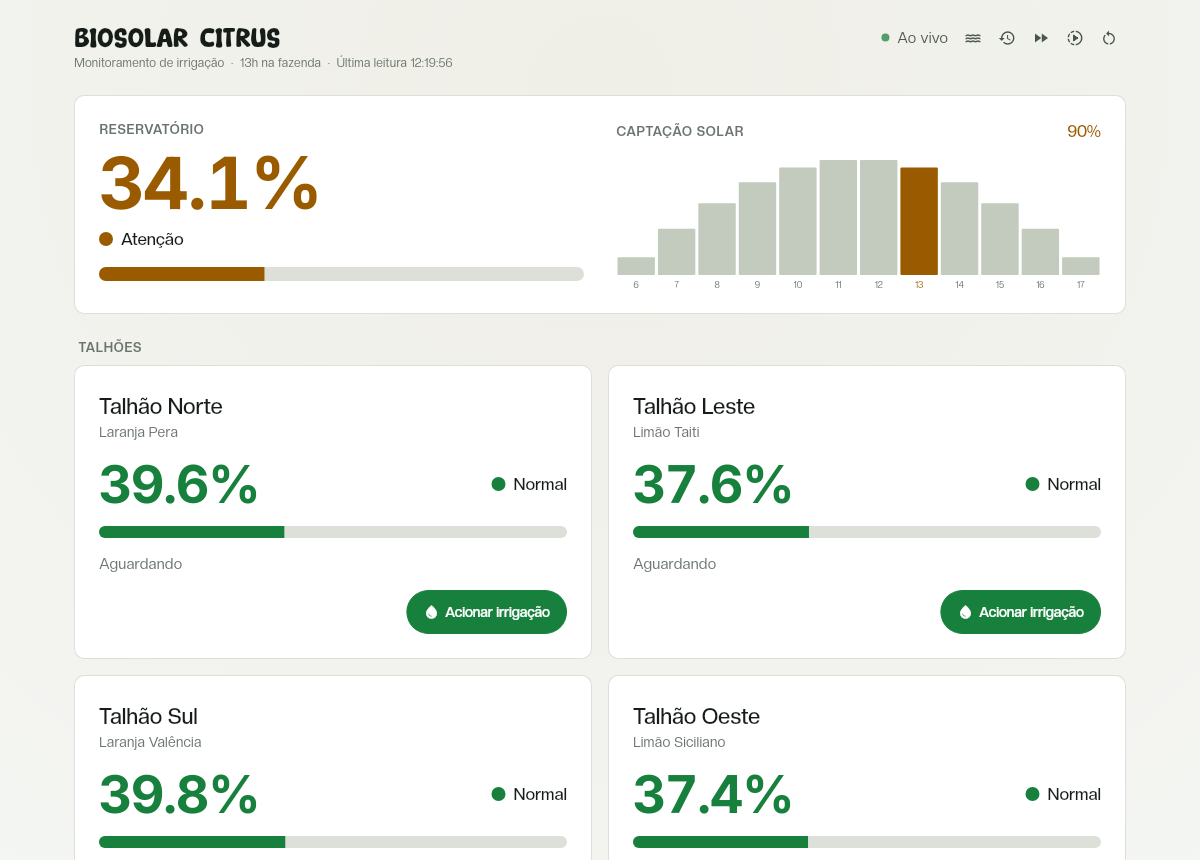
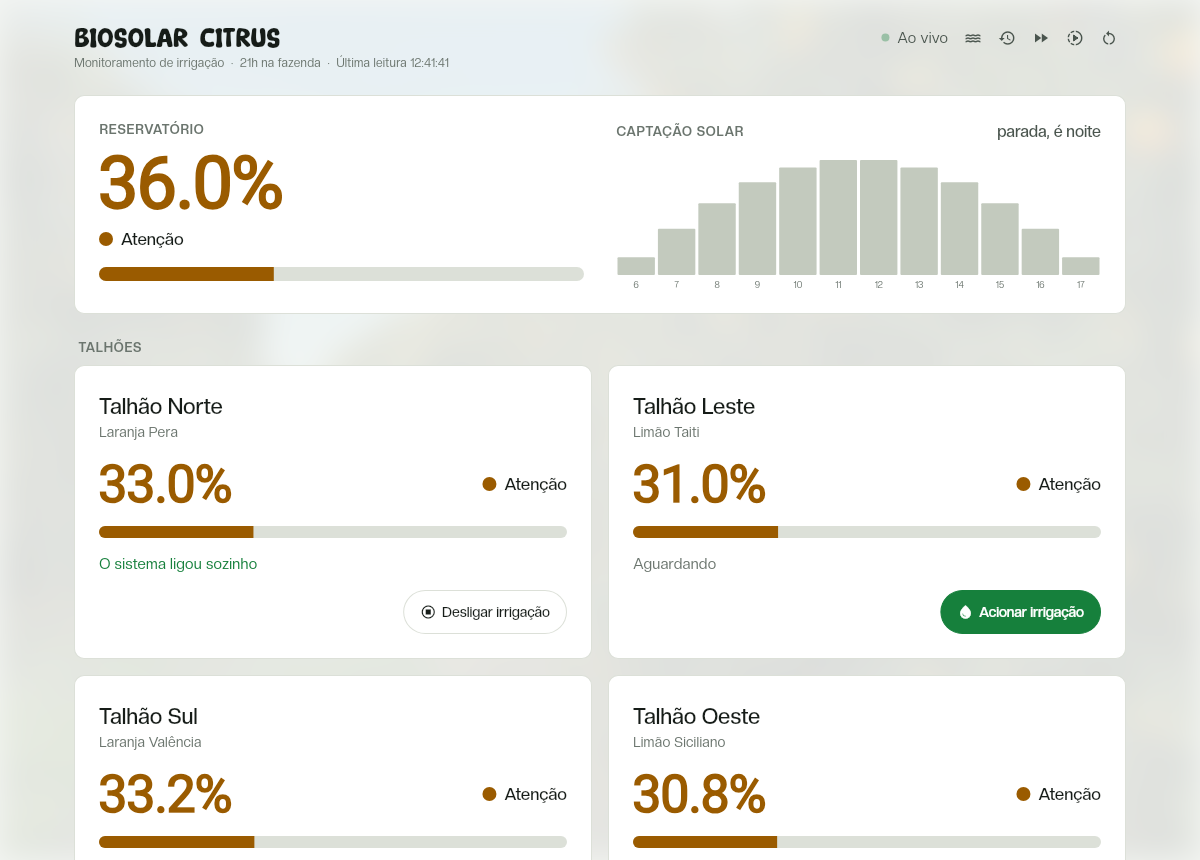
feat(app): foto do pomar como textura de fundo
A imagem entra em app/assets/imagens, desenhada cobrindo a tela e fixa, fora da
area rolavel, entao nao acompanha a rolagem. O desfoque, de sigma 15, envolve
apenas a imagem com ImageFiltered, nunca o conteudo, e por isso e calculado uma
vez em vez de a cada quadro.

Por cima vai um veu da cor de fundo do tema, com a opacidade em uma constante
nomeada, _opacidadeDoVeu, hoje em 0,90. Os cartoes seguem opacos com a cor de
superficie, entao o contraste dos numeros nao depende do que esta atras.

O valor do veu nao foi escolhido no olho. Medi o contraste no pior ponto de
fundo atras do texto terciario, que e o de menor contraste da tela e o primeiro
a sofrer: 4,40 sem imagem, 3,72 com 0,90, 3,07 com 0,82 e 2,70 com 0,74. Em 0,90
a leitura fica praticamente igual a de fundo liso; de 0,82 para baixo a linha de
contexto e o rotulo TALHOES comecam a se perder nas partes escuras da foto. A
tabela ficou no comentario da constante, para a proxima pessoa nao repetir a
medicao.

A foto foi reduzida para 600 por 800 e recomprimida, de 414 KB para 133 KB: ela
aparece desfocada sob um veu de 90%, entao resolucao cheia seria peso no APK sem
nenhum ganho visivel.

Conferido em 375, 480, 820 e 1200, no topo e rolado.

diff --git a/app/lib/funcionalidades/monitoramento/apresentacao/tela_monitoramento.dart b/app/lib/funcionalidades/monitoramento/apresentacao/tela_monitoramento.dart
@@ -5,6 +5,8 @@
 /// servidor devolveu.
 library;
 
+import 'dart:ui' show ImageFilter;
+
 import 'package:compartilhado/modelos.dart';
 import 'package:flutter/material.dart';
 import 'package:flutter_bloc/flutter_bloc.dart';
@@ -31,6 +33,28 @@ const double _corteCelular = 480;
 /// que o estado de conexão e os cinco botões, o nome era truncado bem antes
 /// dos 480.
 const double _corteCabecalho = 600;
+
+/// Opacidade do véu sobre a foto do pomar. É o número para mexer quando quiser
+/// mais ou menos textura no fundo.
+///
+/// Medido com a foto atual, no pior ponto de fundo atrás do texto terciário,
+/// que é o de menor contraste da tela e portanto o primeiro a sofrer:
+///
+/// | véu  | contraste do texto terciário |
+/// |------|------------------------------|
+/// | sem imagem | 4,40                   |
+/// | 0,90 | 3,72, 15% abaixo da base      |
+/// | 0,82 | 3,07, 30% abaixo             |
+/// | 0,74 | 2,70, 39% abaixo             |
+///
+/// 0,90 mantém a leitura praticamente igual à de fundo liso. Abaixo de 0,82 a
+/// linha de contexto e o rótulo TALHÕES começam a se perder nas partes escuras
+/// da foto. O título nunca é problema: fica acima de 9 em qualquer um deles.
+const double _opacidadeDoVeu = 0.90;
+
+/// Desfoque da foto de fundo. Alto de propósito: o que interessa dela é a
+/// mancha de cor, não o pomar reconhecível.
+const double _desfoqueDoFundo = 15;
 
 class TelaMonitoramento extends StatelessWidget {
   const TelaMonitoramento({super.key});
@@ -95,6 +119,9 @@ class _Painel extends StatelessWidget {
     return Scaffold(
       body: Stack(
         children: [
+          // Foto do pomar como textura de fundo, fixa: ela fica fora da área
+          // rolável, então não acompanha a rolagem nem é redesenhada por ela.
+          const _FundoDoPomar(),
           // Temperatura ambiente da tela inteira, não brilho atrás de um card.
           // Invisível em operação normal, discreta em atenção, presente em
           // crítico.
@@ -237,6 +264,43 @@ String _hora(DateTime d) =>
     '${d.hour.toString().padLeft(2, '0')}:'
     '${d.minute.toString().padLeft(2, '0')}:'
     '${d.second.toString().padLeft(2, '0')}';
+
+/// Foto do pomar desfocada, com véu da cor de fundo por cima.
+///
+/// O desfoque envolve só a imagem, nunca o conteúdo: assim ele é calculado uma
+/// vez, quando a imagem é desenhada, e não a cada quadro da rolagem. Os cartões
+/// continuam opacos, com a cor de superfície, então o contraste dos números não
+/// depende em nada do que está atrás.
+class _FundoDoPomar extends StatelessWidget {
+  const _FundoDoPomar();
+
+  @override
+  Widget build(BuildContext context) => Positioned.fill(
+        child: IgnorePointer(
+          child: Stack(
+            fit: StackFit.expand,
+            children: [
+              ImageFiltered(
+                imageFilter: ImageFilter.blur(
+                  sigmaX: _desfoqueDoFundo,
+                  sigmaY: _desfoqueDoFundo,
+                  // Sem isto o desfoque puxa transparência das bordas e a
+                  // moldura da tela clareia.
+                  tileMode: TileMode.clamp,
+                ),
+                child: Image.asset(
+                  'assets/imagens/pomar.jpg',
+                  fit: BoxFit.cover,
+                ),
+              ),
+              ColoredBox(
+                color: Cores.fundo.withValues(alpha: _opacidadeDoVeu),
+              ),
+            ],
+          ),
+        ),
+      );
+}
 
 class _Ambiente extends StatelessWidget {
   const _Ambiente({required this.cor, required this.opacidade});

diff --git a/README.md b/README.md
@@ -110,6 +110,21 @@ atualização e dança horizontalmente na tela, que é exatamente o que faz um
 painel de telemetria parecer instável. Os arquivos das duas primeiras vivem em
 `app/assets/fontes`, junto das licenças, para o aplicativo não depender de rede.
 
+### Fundo
+
+Uma foto de pomar de citros entra como textura, em `app/assets/imagens`. Ela é
+desenhada cobrindo a tela, fixa, fora da área rolável, e leva desfoque de sigma
+15 aplicado só na imagem, nunca no conteúdo, então o desfoque é calculado uma
+vez e não a cada quadro da rolagem. Por cima vai um véu da cor de fundo do tema
+com opacidade em `_opacidadeDoVeu`, hoje em 0,90.
+
+Os cartões continuam opacos, com a cor de superfície, então o contraste dos
+números não depende em nada do que está atrás deles. O valor do véu foi escolhido
+medindo o contraste no pior ponto de fundo atrás do texto terciário, que é o de
+menor contraste da tela: 4,40 sem imagem, 3,72 com véu de 0,90, 3,07 com 0,82 e
+2,70 com 0,74. A partir de 0,82 a linha de contexto e o rótulo TALHÕES começam a
+se perder nas partes escuras da foto.
+
 ### Por que fundo claro
 
 Este aplicativo é para o produtor usar no campo, no sol, de relance e com uma
